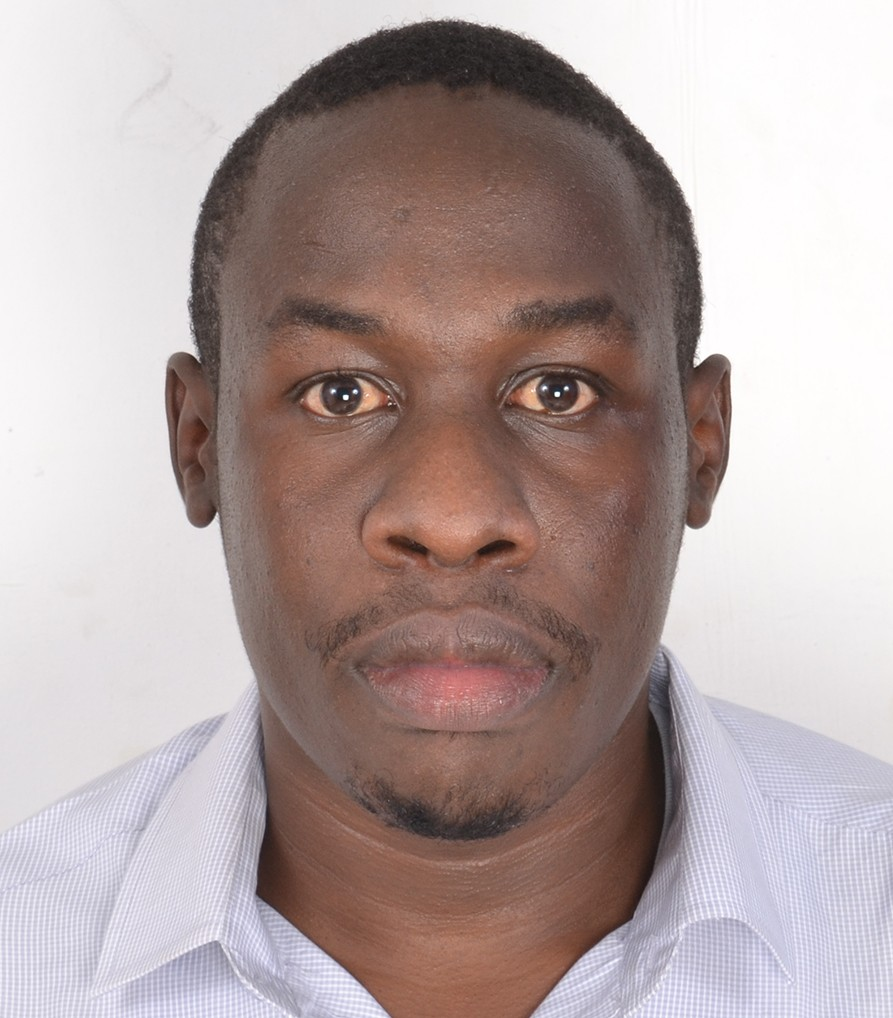
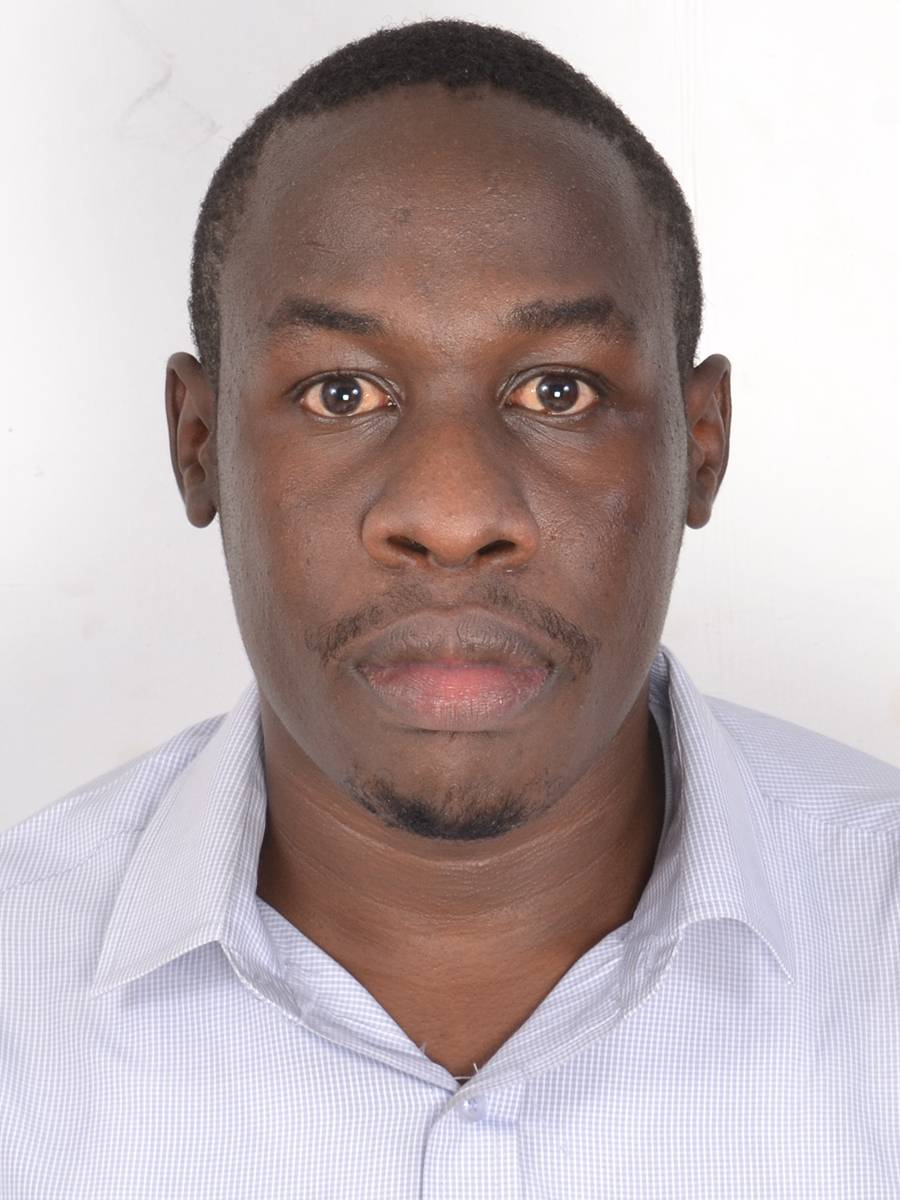
changes image loading from cms

diff --git a/src/components/Team.js b/src/components/Team.js
@@ -1,58 +1,92 @@
 import React from "react"
-// import { useStaticQuery } from "gatsby"
-// import Img from "gatsby-image"
-const Team = ({ doctors }) => {
-  // const data = useStaticQuery(graphql`
-  //   query Images {
-  //     moroga: file(relativePath: { eq: "moroga.jpg" }) {
-  //       childImageSharp {
-  //         fluid {
-  //           ...GatsbyImageSharpFluid
-  //         }
-  //       }
-  //     }
-  //     ominde: file(relativePath: { eq: "ominde.jpg" }) {
-  //       childImageSharp {
-  //         fluid {
-  //           ...GatsbyImageSharpFluid
-  //         }
-  //       }
-  //     }
-  //     faith: file(relativePath: { eq: "faith.jpg" }) {
-  //       childImageSharp {
-  //         fluid {
-  //           ...GatsbyImageSharpFluid
-  //         }
-  //       }
-  //     }
-  //     oyoo: file(relativePath: { eq: "oyoo.jpg" }) {
-  //       childImageSharp {
-  //         fluid {
-  //           ...GatsbyImageSharpFluid
-  //         }
-  //       }
-  //     }
-  //   }
-  // `)
+import { useStaticQuery } from "gatsby"
+import Img from "gatsby-image"
+const Team = () => {
+  const data = useStaticQuery(graphql`
+    query Images {
+      doc1: file(relativePath: { eq: "oyoo.jpg" }) {
+        childImageSharp {
+          fluid {
+            ...GatsbyImageSharpFluid
+          }
+        }
+      }
+      doc2: file(relativePath: { eq: "moroga.jpg" }) {
+        childImageSharp {
+          fluid {
+            ...GatsbyImageSharpFluid
+          }
+        }
+      }
+      doc3: file(relativePath: { eq: "faith.jpg" }) {
+        childImageSharp {
+          fluid {
+            ...GatsbyImageSharpFluid
+          }
+        }
+      }
+      doc4: file(relativePath: { eq: "ominde.jpg" }) {
+        childImageSharp {
+          fluid {
+            ...GatsbyImageSharpFluid
+          }
+        }
+      }
+      doc5: file(relativePath: { eq: "akuom.jpg" }) {
+        childImageSharp {
+          fluid {
+            ...GatsbyImageSharpFluid
+          }
+        }
+      }
+    }
+  `)
   return (
     <div id="team" className="meet-team">
       <h1 className="heading">
         <span>meet</span> Our Team
       </h1>
       <ul className="profiles">
-        {doctors.map((doc, index) => {
-          return (
-            <li className="profile" key={index}>
-              <img
-                className="profile-img"
-                src={doc.image.asset.url}
-                alt="doctor_image"
-              />
-              <h4 className="user-name">{doc.name}</h4>
-              <h5>{doc.bio}</h5>
-            </li>
-          )
-        })}
+        <li className="profile">
+          <Img
+            className="profile-img"
+            fluid={data.doc1.childImageSharp.fluid}
+          />
+          <h4 className="user-name">Dr. Oyoo Carl(MBChB)</h4>
+          <h5>General Practitioner</h5>
+        </li>
+        <li className="profile">
+          <Img
+            className="profile-img"
+            fluid={data.doc2.childImageSharp.fluid}
+          />
+          <h4 className="user-name">Dr. William Moroga(MBChB)</h4>
+          <h5>General Practitioner</h5>
+        </li>
+        <li className="profile">
+          <Img
+            className="profile-img"
+            fluid={data.doc3.childImageSharp.fluid}
+          />
+          <h4 className="user-name">Dr. Faith Ondago (MBChB)</h4>
+          <h5>General Practitioner</h5>
+        </li>
+        <li className="profile">
+          <Img
+            className="profile-img"
+            fluid={data.doc4.childImageSharp.fluid}
+          />
+          <h4 className="user-name">Dr. Ominde Francis (MBChB)</h4>
+          <h5>General Practitioner</h5>
+        </li>
+        <li className="profile">
+          <Img
+            className="profile-img"
+            fluid={data.doc5.childImageSharp.fluid}
+          />
+          <h4 className="user-name">Dr. David Akuom (MBChB)</h4>
+          <h5>General Practitioner</h5>
+        </li>
       </ul>
     </div>
   )

diff --git a/src/styles/styles.scss b/src/styles/styles.scss
@@ -252,8 +252,8 @@ body {
 }
 .profile .profile-img {
   // margin-right: 4em;
-  height: 286px;
-  width: 234px;
+  height: 300px;
+  width: 240px;
   border-radius: 50%;
   filter: grayscale(100%);
   // -webkit-filter: grayscale(100%);
